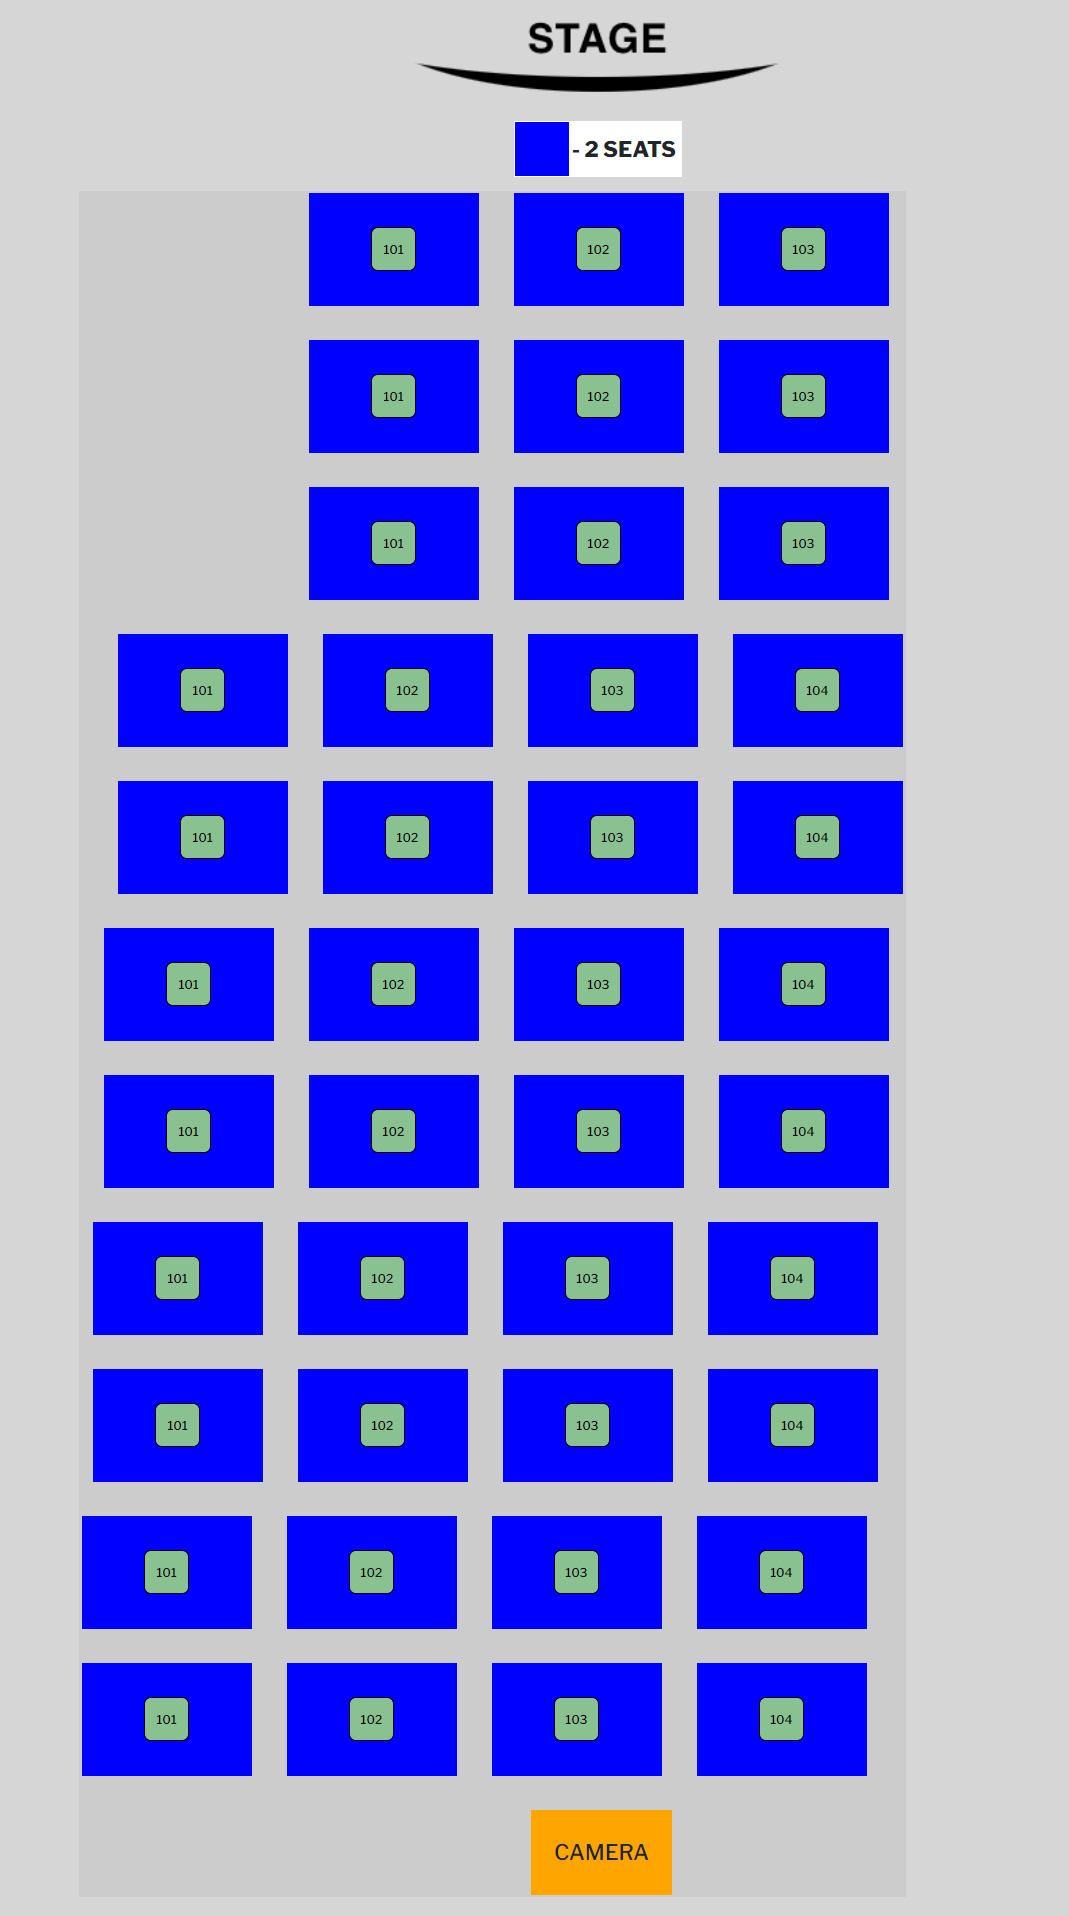
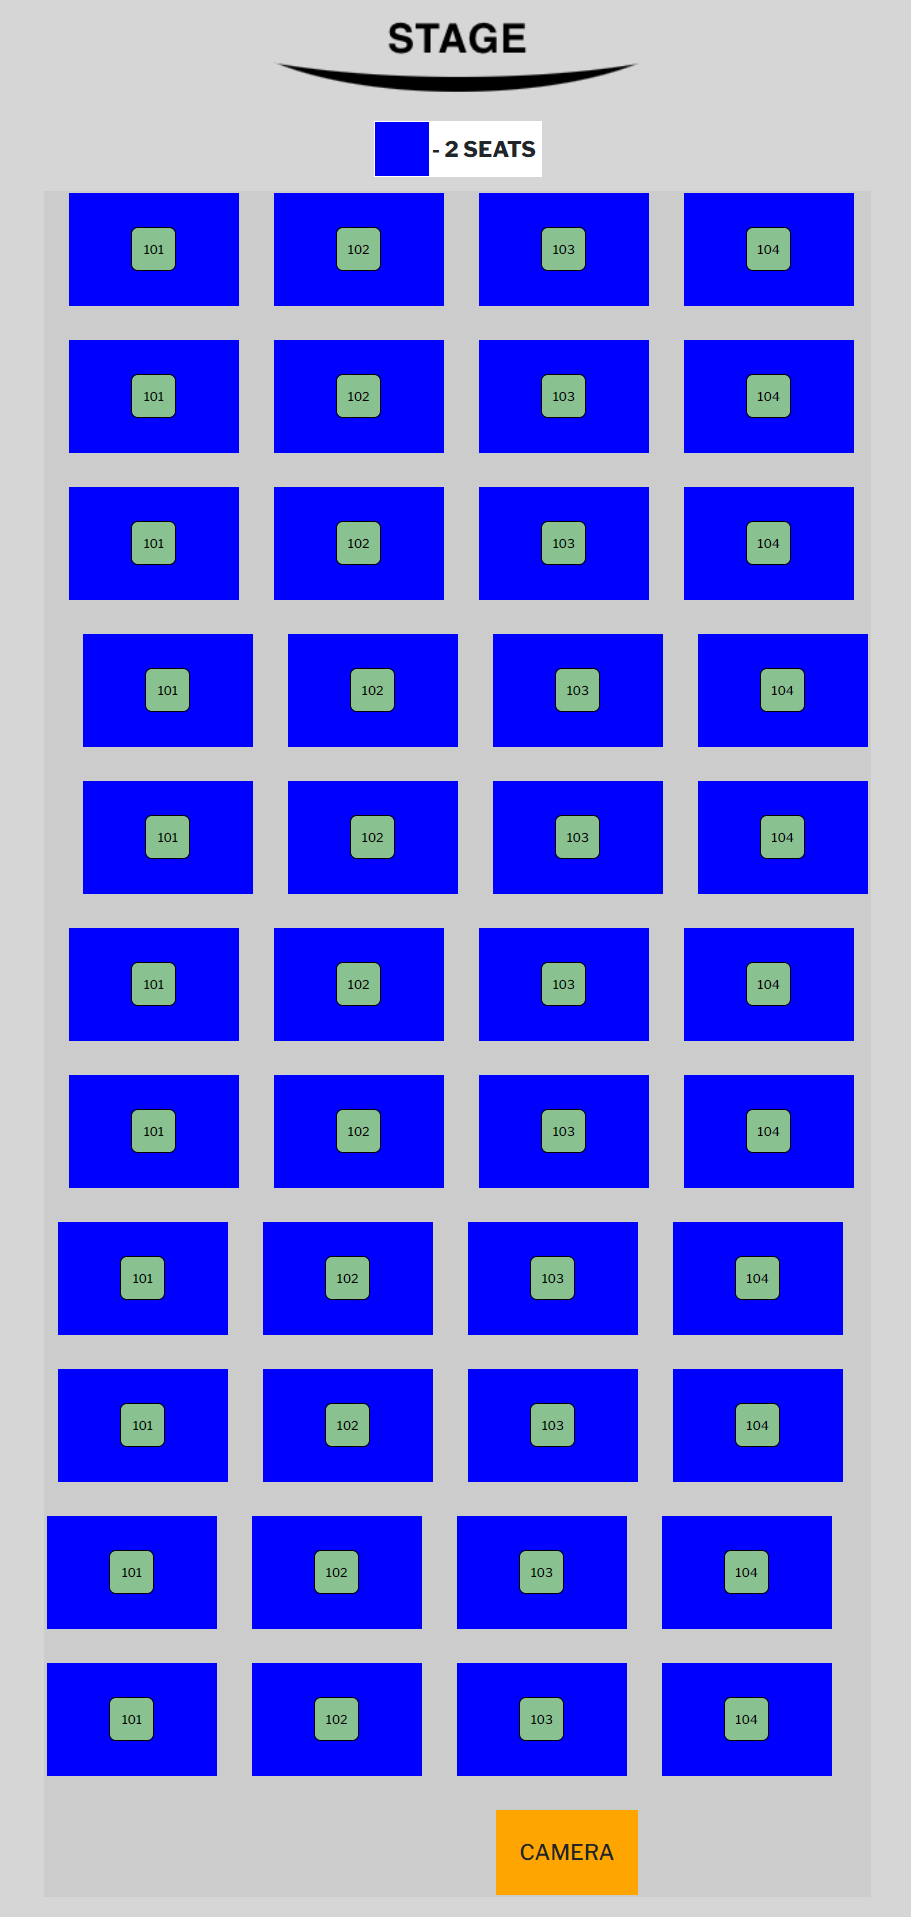
new fix

diff --git a/Completed/25946.html b/Completed/25946.html
@@ -68,7 +68,7 @@
   <!-- ALL -->
   <tr>
     <td>
-      <div align="center" style="position: relative; right: 78px;">
+      <div align="center">
         <table align="center">
           <td>
             <div align='center'>
@@ -102,6 +102,16 @@
                           <td>
                             <div class='blue' align='center'>
                               {{{ sectionsMarkupNoRowNames.37881 }}}
+                            </div>    
+                          </td>
+                          <td>
+                            <div align='center'>
+                              <img src="https://s3.amazonaws.com/prdv2-dt-client/seating_images/pixel.png" width="21" height="42">
+                            </div>
+                          </td>
+                          <td>
+                            <div class='blue' align='center'>
+                              {{{ sectionsMarkupNoRowNames.37882 }}}
                             </div>    
                           </td>
                           <td>
@@ -156,6 +166,16 @@
                           </td>
                           <td>
                             <div align='center'>
+                              <img src="https://s3.amazonaws.com/prdv2-dt-client/seating_images/pixel.png" width="21" height="42">
+                            </div>
+                          </td>
+                          <td>
+                            <div class='blue' align='center'>
+                              {{{ sectionsMarkupNoRowNames.37886 }}}
+                            </div>    
+                          </td>
+                          <td>
+                            <div align='center'>
                               <img src="https://s3.amazonaws.com/prdv2-dt-client/seating_images/pixel.png" width="8" height="42">
                             </div>
                           </td>
@@ -202,6 +222,16 @@
                           <td>
                             <div class='blue' align='center'>
                               {{{ sectionsMarkupNoRowNames.37889 }}}
+                            </div>    
+                          </td>
+                          <td>
+                            <div align='center'>
+                              <img src="https://s3.amazonaws.com/prdv2-dt-client/seating_images/pixel.png" width="21" height="42">
+                            </div>
+                          </td>
+                          <td>
+                            <div class='blue' align='center'>
+                              {{{ sectionsMarkupNoRowNames.37890 }}}
                             </div>    
                           </td>
                           <td>
